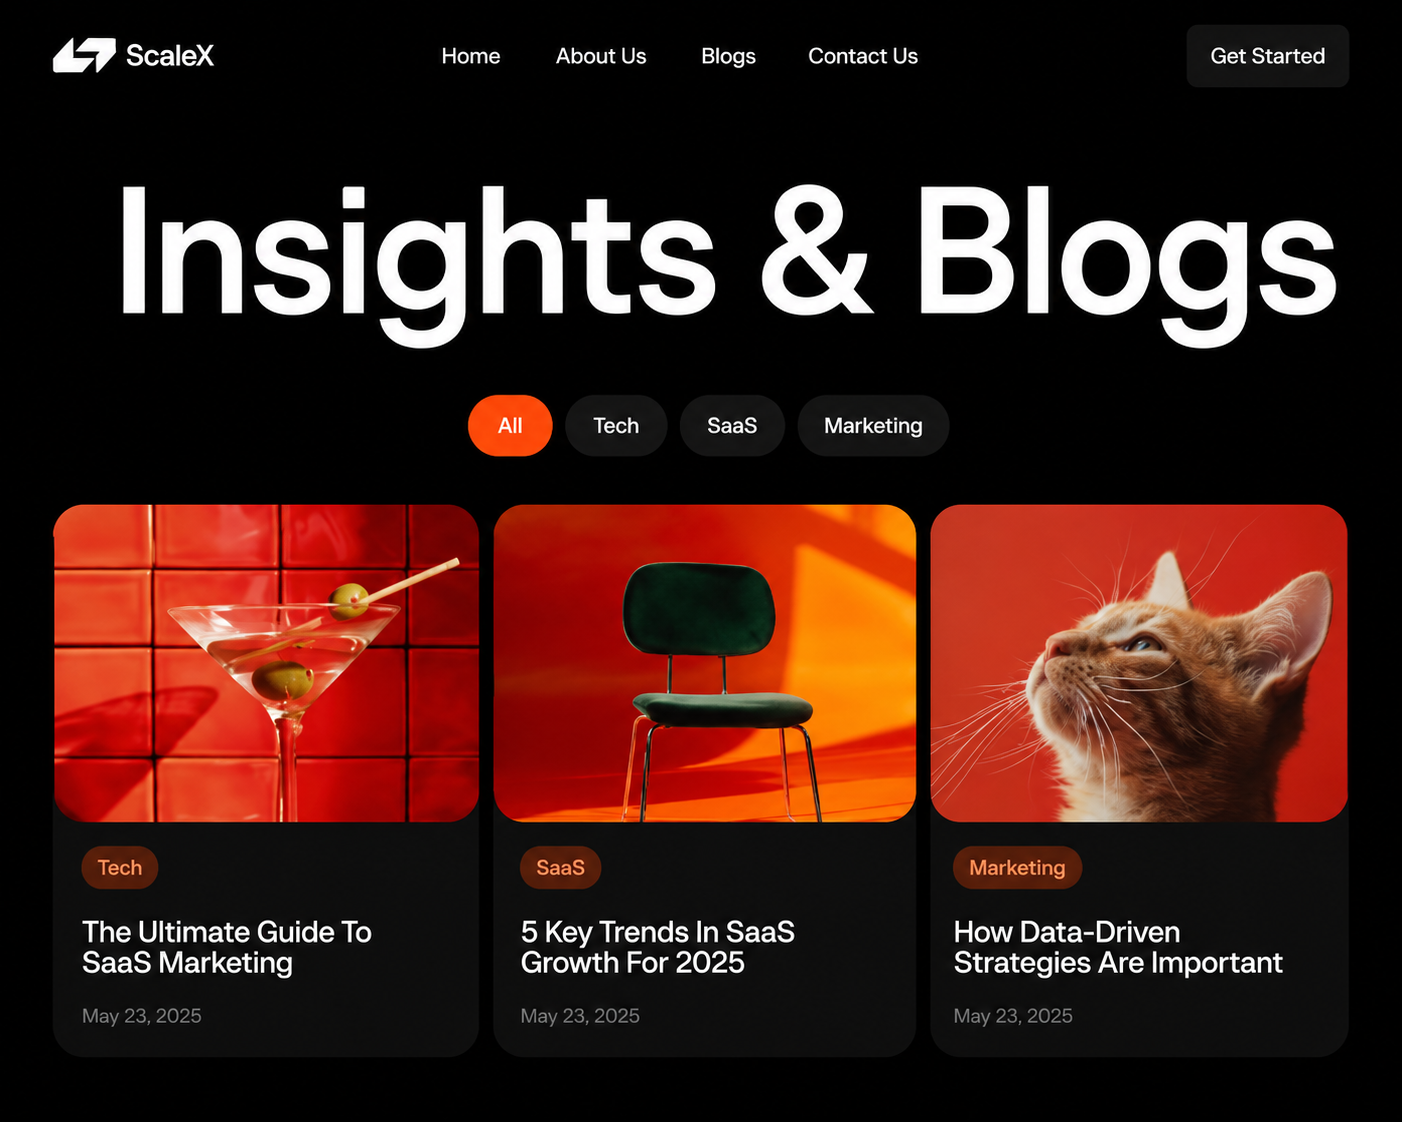
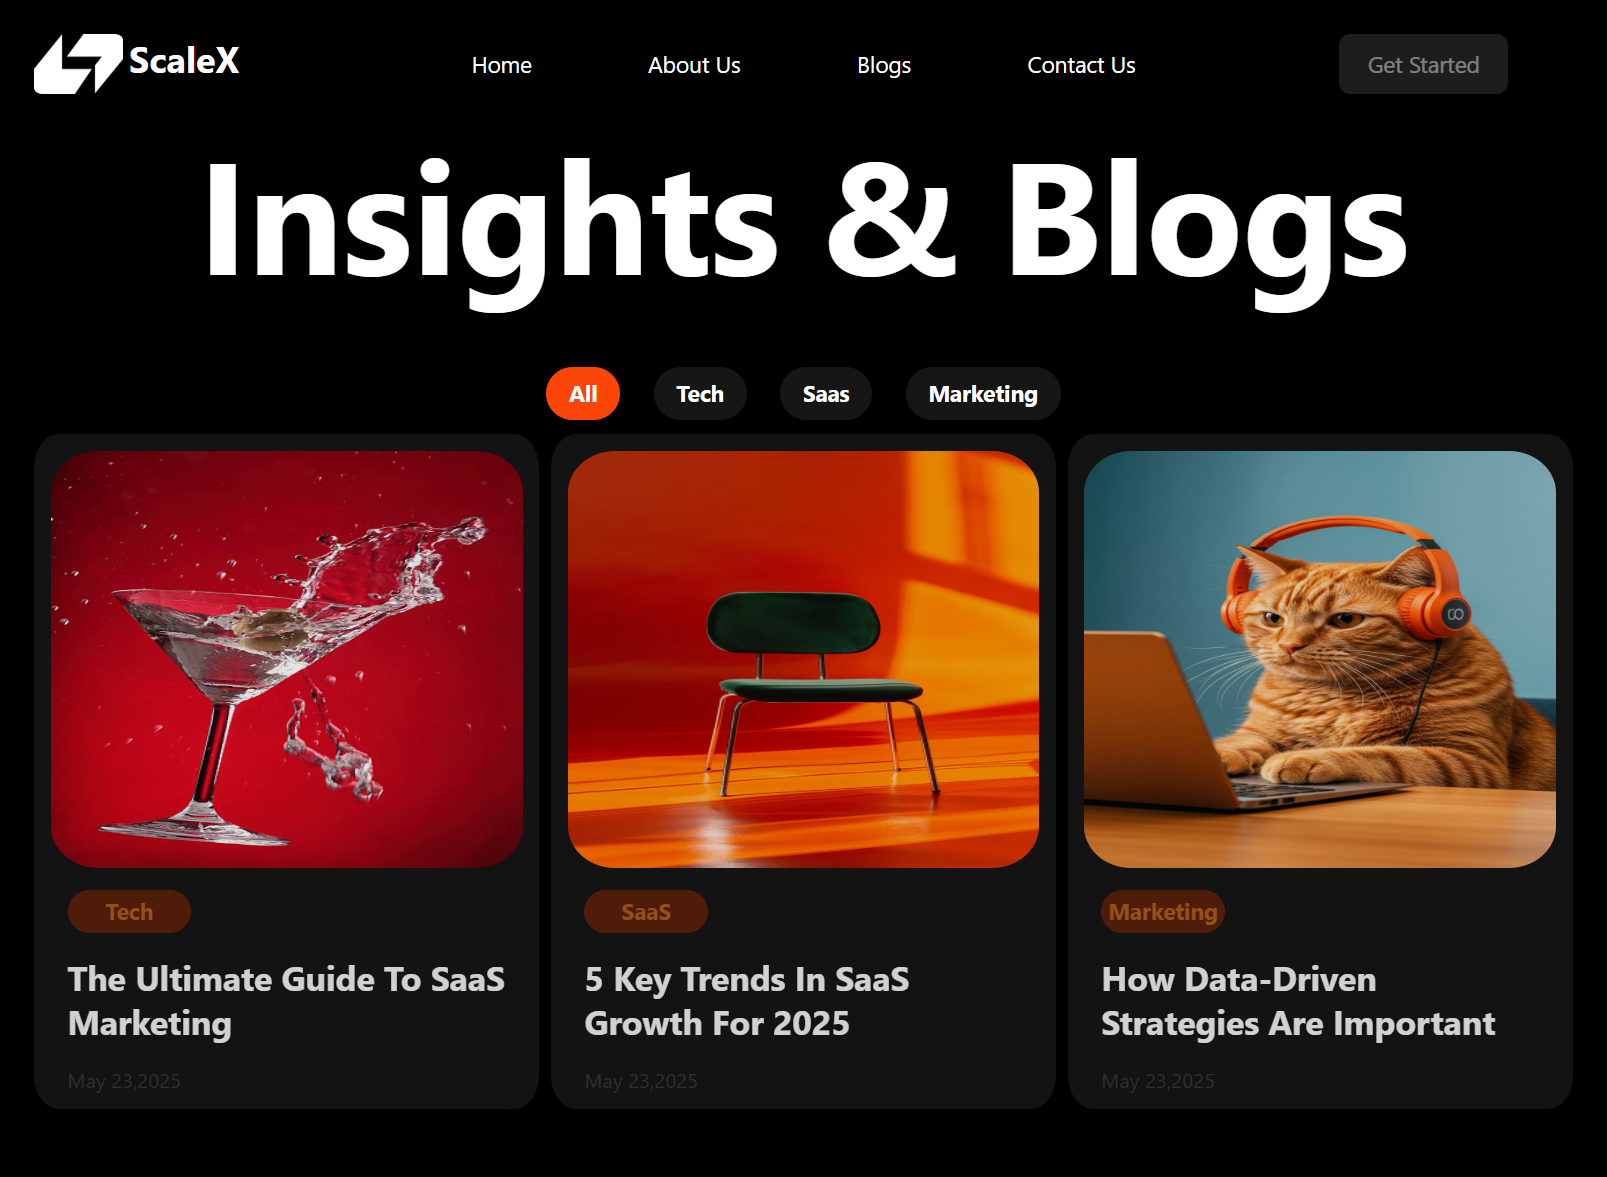
Added Readme.md file

diff --git a/EASY/Readme.md b/EASY/Readme.md
@@ -1,0 +1,37 @@
+# ScaleX Blog UI
+
+A modern dark-themed blog landing page built with pure **HTML & CSS**.  
+This project focuses on creating clean layouts using **Flexbox**, responsive sections, and modern UI styling.
+
+🔗 **Live Demo:** https://scalex-blog.vercel.app/
+
+---
+
+## Preview
+
+![ScaleX Blog UI](https://raw.githubusercontent.com/harshilfinava23/frontend-assignment-2/main/EASY/ProjectSS.png)
+
+---
+
+## About
+
+The goal was to recreate a modern blog website UI using:
+
+- `display: flex`
+- Clean card layouts
+- Hover effects
+- Responsive spacing & alignment
+
+No JavaScript. No frameworks. Pure HTML & CSS only.
+
+---
+
+## Tech Used
+
+- HTML5
+- CSS3
+- Flexbox
+
+---
+
+Made by [Harshil Finava](https://github.com/harshilfinava23)
